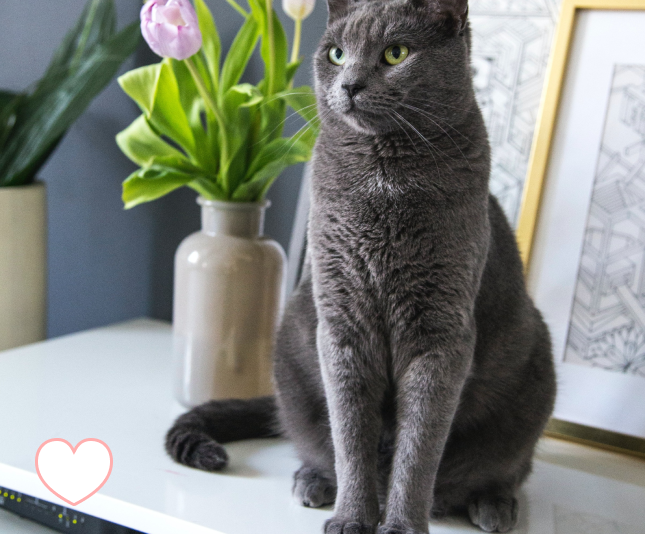
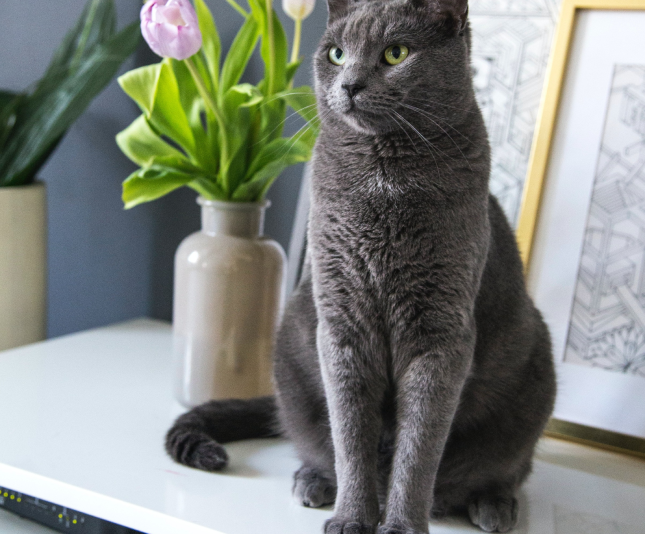
add 愛心點擊效果完成

Changed region(s): [[0.031, 0.809, 0.186, 0.9588]]

diff --git a/src/components/CardClickLike.vue b/src/components/CardClickLike.vue
@@ -1,0 +1,42 @@
+<script>
+
+export default {
+    data() {
+        return {
+            isFavorite: false,
+        };
+    },
+    methods: {
+        toggleFavorite() {
+            this.isFavorite = !this.isFavorite;
+        },
+    },
+};
+</script>
+<template>
+    <div @click="toggleFavorite" class="heartButton">
+        <svg :class="{ active: isFavorite }" class="heartIcon" width="78" height="68" viewBox="0 0 78 68"
+            xmlns="http://www.w3.org/2000/svg">
+            <path id="Vector"
+                d="M7.00292 7.79132L7.00372 7.79044C10.6518 3.75984 15.8834 1.50523 22.152 1.50523C27.3301 1.50523 31.5465 3.41232 34.7742 7.01648C35.8989 8.29209 36.8733 9.69444 37.6779 11.1956L39 13.6623L40.3221 11.1956C41.1267 9.69444 42.1011 8.29209 43.2258 7.01648C46.4542 3.41155 50.6709 1.5 55.848 1.5C62.0957 1.5 67.3283 3.7494 70.9821 7.77113C74.6143 11.7725 76.5 17.3135 76.5 23.6102C76.5 34.3791 71.01 43.1318 63.8431 50.0594L63.8424 50.0601C56.6948 56.9783 47.6717 62.2909 40.1017 66.2308C39.7593 66.4089 39.3798 66.5011 38.9953 66.5C38.6108 66.4989 38.2318 66.4045 37.8904 66.2244L37.889 66.2236C30.3141 62.2368 21.2868 56.9658 14.1448 50.0839C6.98083 43.1795 1.5 34.4587 1.5 23.6102C1.5 17.3382 3.37615 11.792 7.00292 7.79132Z"
+                stroke="#FFAFAF" stroke-width="3" />
+        </svg>
+    </div>
+</template>
+<style scoped>
+.heartButton {
+    background: none;
+    border: none;
+    cursor: pointer;
+    /* position: fixed; */
+}
+
+.heartIcon {
+    fill: white;
+    transition: fill 0.3s ease;
+}
+
+.heartIcon.active {
+    fill: #FFAFAF;
+}
+</style>

diff --git a/src/components/PetsCardImage.vue b/src/components/PetsCardImage.vue
@@ -1,11 +1,16 @@
 <script>
+import CardClickLike from '@/components/CardClickLike.vue';
+
+export default {
+    components: {
+        CardClickLike,
+    },
+}
 </script>
 <template>
     <div class="furryBabiesImage">
         <img src="../assets/Image/CardImage/CardCat.png" alt="">
-        <!-- 愛心做Icon -->
-        <!-- <IconHeart /> -->
-        <img class="heart" src="../assets/Image/CardImage/IconHeart.svg" alt="">
+        <CardClickLike class="heart"></CardClickLike>
     </div>
 </template>
 <style scoped>
@@ -23,10 +28,8 @@
 
 /* 卡片愛心 */
 .furryBabiesImage .heart {
-    width: 4.8rem;
-    height: 4.25rem;
     position: absolute;
-    bottom: 1.8rem;
-    left: 2.2rem;
+    bottom: 1.75rem;
+    left: 2.1rem;
 }
 </style>

diff --git a/src/views/AdoptionPetInformation.vue b/src/views/AdoptionPetInformation.vue
@@ -25,9 +25,9 @@ export default {
         NavPage,
         FooterPage,
         TitleAndLine,
-        PetsCardImage,
         PetsCardFrame,
-        IconCard
+        IconCard,
+        PetsCardImage,
     }
 }
 </script>
